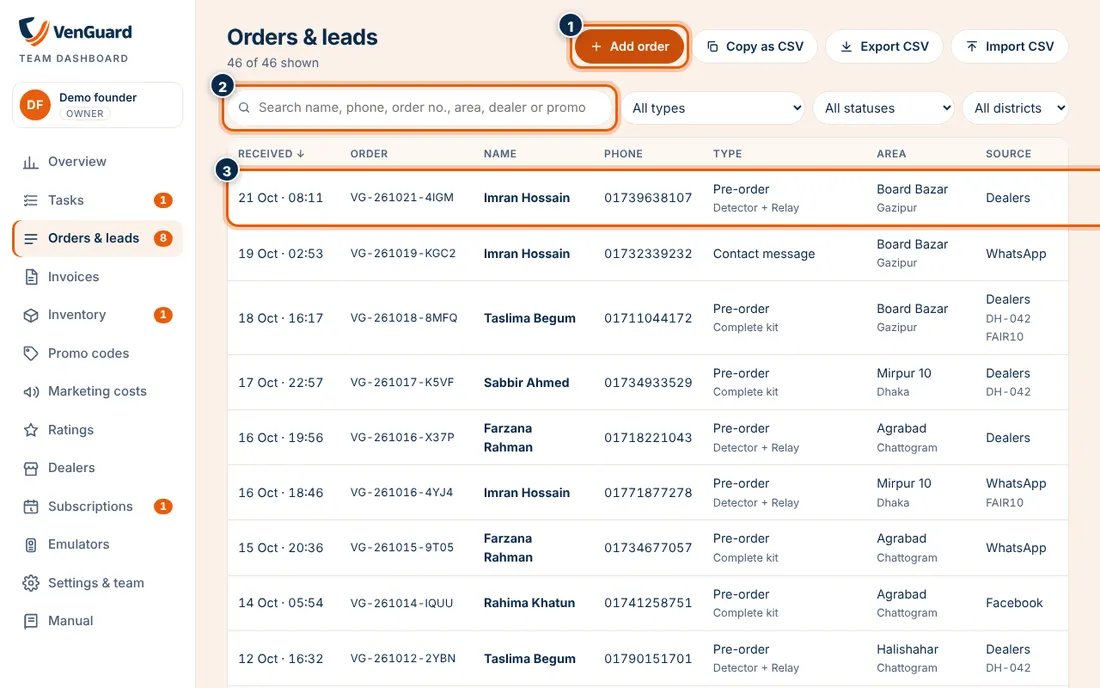
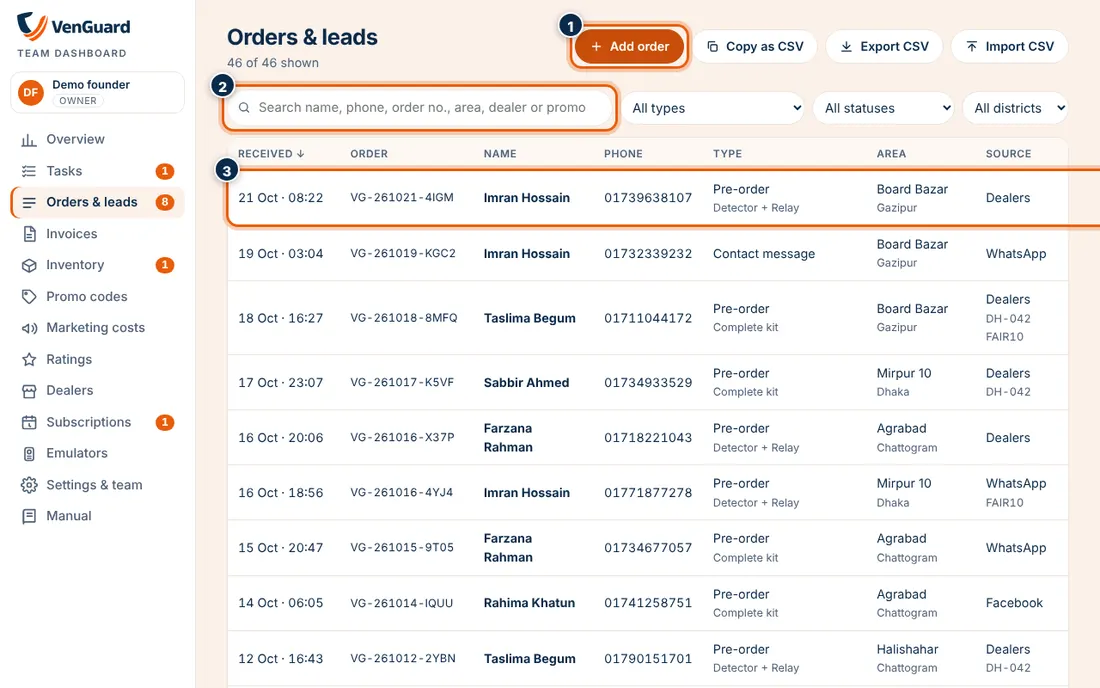
Team dashboard: menu fits short screens; manual works on phones
- Menu: on shorter windows (a laptop, or a zoomed-in browser) the menu
  is more compact so every section, Manual included, fits without
  scrolling; measured at 100, 125 and 150 % zoom and on a 1366×640 laptop.
  If a window is shorter still, the menu scrolls inside the white panel
  with a thin scrollbar.
- Manual on phones: the Contents box no longer stays frozen on screen;
  it is a folded "Contents" button that scrolls away, opens on tap and
  folds again after choosing a section. Pictures have fixed sizes, so
  the page no longer jumps while they load and links land on their
  section, below the phone's top bar.
- Section numbers stay readable in automatic dark mode.
- Manual pictures retaken with the compact menu.

Claude-Session: https://claude.ai/code/session_013BGdqmLLL6kjXTJA25d3RY

diff --git a/team-dashboard/css/dashboard.css b/team-dashboard/css/dashboard.css
@@ -51,7 +51,8 @@ button, input, select, textarea { font: inherit; color: inherit; }
 .mono { font-family: var(--mono); font-size: .9em; font-variant-numeric: tabular-nums; letter-spacing: .01em; }
 
 .app { display: grid; grid-template-columns: 228px minmax(0, 1fr); min-height: 100%; }
-.rail { background: var(--rail); color: var(--rail-ink); border-right: 1px solid var(--rail-line); padding: 20px 14px; display: flex; flex-direction: column; gap: 18px; position: sticky; top: env(safe-area-inset-top, 0px); height: 100vh; overflow-y: auto; }
+.rail { background: var(--rail); color: var(--rail-ink); border-right: 1px solid var(--rail-line); padding: 20px 14px; display: flex; flex-direction: column; gap: 18px; position: sticky; top: env(safe-area-inset-top, 0px); height: 100vh; overflow-y: auto; scrollbar-width: thin; scrollbar-color: var(--rail-line) transparent; }
+
 .brand { display: grid; gap: 6px; padding: 0 8px; }
 .brand-logo { height: 34px; width: auto; max-width: 100%; }
 .brand-symbol { width: 32px; height: 32px; }
@@ -342,13 +343,20 @@ table.tot tr:last-child th, table.tot tr:last-child td { border-bottom: 0; }
 .manual { display: grid; grid-template-columns: 240px minmax(0, 1fr); gap: 20px; align-items: start; }
 @media (max-width: 960px) { .manual { grid-template-columns: 1fr; } }
 .manual-toc { position: sticky; top: 16px; }
+@media (max-width: 960px) { .manual-toc { position: static; } }   /* phones: the contents scroll away */
+.manual-toc summary { cursor: pointer; list-style: none; display: flex; align-items: baseline; gap: 4px; }
+.manual-toc summary::-webkit-details-marker { display: none; }
+.manual-toc summary::after { content: "▾"; margin-left: auto; color: var(--muted); }
+.manual-toc details[open] summary::after { content: "▴"; }
 .manual-toc ol { margin: 8px 0 12px; padding-left: 1.2em; display: grid; gap: 6px; font-size: .9rem; }
 .manual-toc a { color: var(--ink); }
 .manual-body { display: grid; gap: 20px; }
 .manual-sec { scroll-margin-top: 16px; }
+@media (max-width: 760px) { .manual-sec { scroll-margin-top: 76px; } }   /* phones: clear the top bar */
 .manual-sec h2 { display: flex; align-items: center; gap: 10px; font-size: 1.2rem; }
 .manual-num { display: inline-grid; place-items: center; width: 30px; height: 30px; border-radius: 50%; background: var(--navy); color: #fff; font-size: .9rem; font-weight: 700; flex: none; }
 :root[data-theme="dark"] .manual-num { background: var(--accent); color: #07192C; }
+@media (prefers-color-scheme: dark) { :root:not([data-theme="light"]) .manual-num { background: var(--accent); color: #07192C; } }
 .manual-steps { margin: 10px 0 16px; padding-left: 1.3em; display: grid; gap: 8px; line-height: 1.55; }
 .manual-pics { display: grid; grid-template-columns: repeat(auto-fit, minmax(min(100%, 300px), 1fr)); gap: 16px; }
 .manual-pics figure { margin: 0; }
@@ -412,3 +420,19 @@ table.tot tr:last-child th, table.tot tr:last-child td { border-bottom: 0; }
 .pstat strong { font-size: 1.4rem; color: var(--navy); }
 .pstat span { font-size: .78rem; color: var(--muted); }
 .drawer h3 { font-size: .95rem; margin: 6px 0 0; }
+
+/* Shorter windows (a laptop, or zoomed in): a more compact menu so every section fits without scrolling.
+   Kept at the end so it overrides the menu rules above. */
+@media (min-width: 761px) and (max-height: 900px) {
+  .rail { padding: 14px 12px; gap: 12px; }
+  .nav { gap: 0; }
+  .nav button { padding: 7px 12px; }
+  .me-btn { padding: 6px 8px; }
+  .me-btn .avatar { width: 30px; height: 30px; font-size: .8rem; }
+}
+@media (min-width: 761px) and (max-height: 720px) {
+  .brand small { display: none; }
+  .brand-logo { height: 28px; }
+  .nav button { padding: 5px 12px; font-size: .92rem; }
+  .nav button svg { width: 18px; height: 18px; }
+}

diff --git a/team-dashboard/js/views/manual.js b/team-dashboard/js/views/manual.js
@@ -6,6 +6,7 @@
 import { esc, ICON } from "../ui.js";
 import { S } from "../store.js";
 
+// Picture sizes are fixed (dashboard 1100×688, app 540×1171) so the page does not jump while they load.
 const APP = "../VENGuard/assets/img/app-guide/en/";
 const M = "manual/";
 
@@ -143,6 +144,8 @@ const SECTIONS = [
     pics: [[M + "19-team.webp", "Team list"], [M + "20-add-person.webp", "Add a person"]] },
 ];
 
+/** Wide screens show the contents open beside the manual; phones get a folded "Contents" button that scrolls away. */
+const wideScreen = () => matchMedia("(min-width: 961px)").matches;
 const EDITION = { owner: "Company account edition", founder: "Founder edition", support: "Support edition", marketing: "Marketing edition", guest: "Guest edition" };
 const sees = (s) => s.who.includes(S.me.owner ? "founder" : S.me.role) || (S.me.owner && s.who.includes("owner"));
 
@@ -154,12 +157,12 @@ export default {
     return `<div class="topline"><div><h1>Manual</h1>
         <div class="sub">${esc(EDITION[key] || "Team edition")}: the parts of the dashboard your role uses, step by step. In the pictures, the orange rings and numbers show what to press; they match the numbered steps. Pictures use made-up data.</div></div></div>
       <div class="manual">
-        <nav class="manual-toc panel tight" aria-label="Manual contents"><strong>Contents</strong><ol>${list.map((s) => `<li><a href="#m-${s.id}" data-manual="${s.id}">${esc(s.title)}</a></li>`).join("")}</ol>
-          <p class="sub">Customers' guide to the app: <a href="../VENGuard/en/app-guide/" target="_blank" rel="noopener">website → How to use the app</a></p></nav>
+        <nav class="manual-toc panel tight" aria-label="Manual contents"><details${wideScreen() ? " open" : ""}><summary><strong>Contents</strong><span class="type"> · ${list.length} sections</span></summary><ol>${list.map((s) => `<li><a href="#m-${s.id}" data-manual="${s.id}">${esc(s.title)}</a></li>`).join("")}</ol>
+          <p class="sub">Customers' guide to the app: <a href="../VENGuard/en/app-guide/" target="_blank" rel="noopener">website → How to use the app</a></p></details></nav>
         <div class="manual-body">${list.map((s, i) => `<section class="panel manual-sec" id="m-${s.id}">
           <h2><span class="manual-num">${i + 1}</span>${esc(s.title)}</h2>
           <ol class="manual-steps">${s.steps.map((t) => `<li>${t}</li>`).join("")}</ol>
-          <div class="manual-pics">${s.pics.map(([src, alt], n) => `<figure><a href="${src}" data-zoom title="Open larger"><img src="${src}" alt="${esc(alt)}" loading="lazy"></a><figcaption>Picture ${n + 1}: ${esc(alt)}</figcaption></figure>`).join("")}</div>
+          <div class="manual-pics">${s.pics.map(([src, alt], n) => `<figure><a href="${src}" data-zoom title="Open larger"><img src="${src}" alt="${esc(alt)}" ${src.startsWith(APP) ? 'width="540" height="1171"' : 'width="1100" height="688"'} loading="lazy"></a><figcaption>Picture ${n + 1}: ${esc(alt)}</figcaption></figure>`).join("")}</div>
         </section>`).join("")}</div></div>`;
   },
 };
@@ -169,6 +172,8 @@ document.addEventListener("click", (e) => {
   const a = e.target.closest("a[data-manual]");
   if (!a) return;
   e.preventDefault();
+  const list = a.closest("details");
+  if (list && !wideScreen()) list.open = false;   // phones: fold the contents again
   document.getElementById("m-" + a.dataset.manual)?.scrollIntoView({ behavior: "smooth", block: "start" });
 });
 
